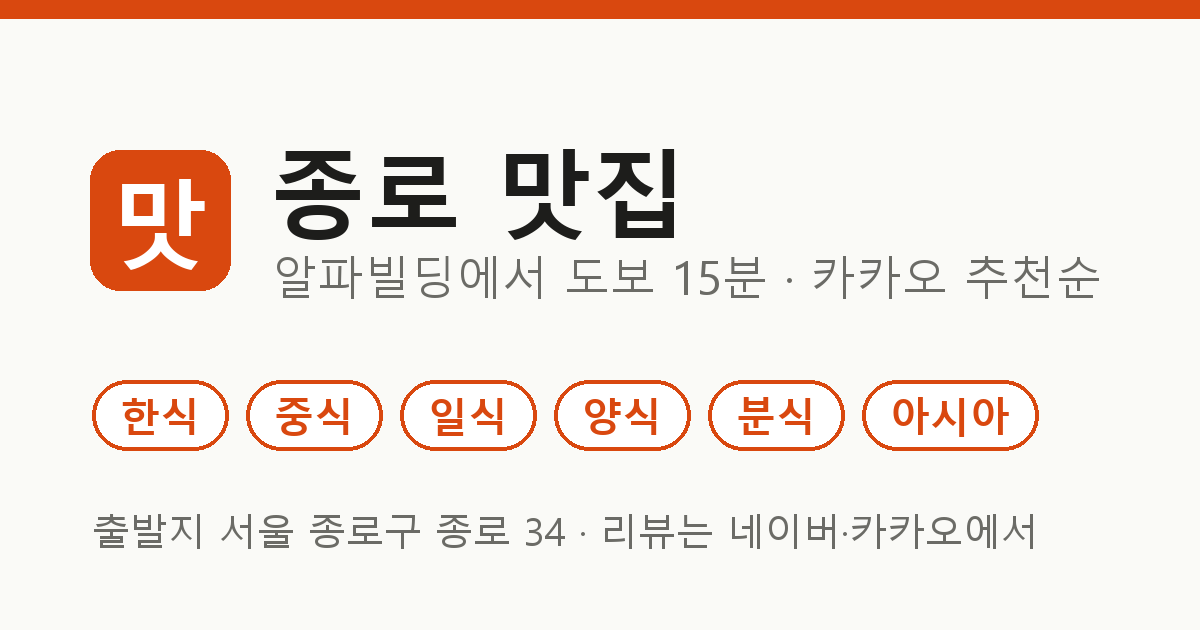
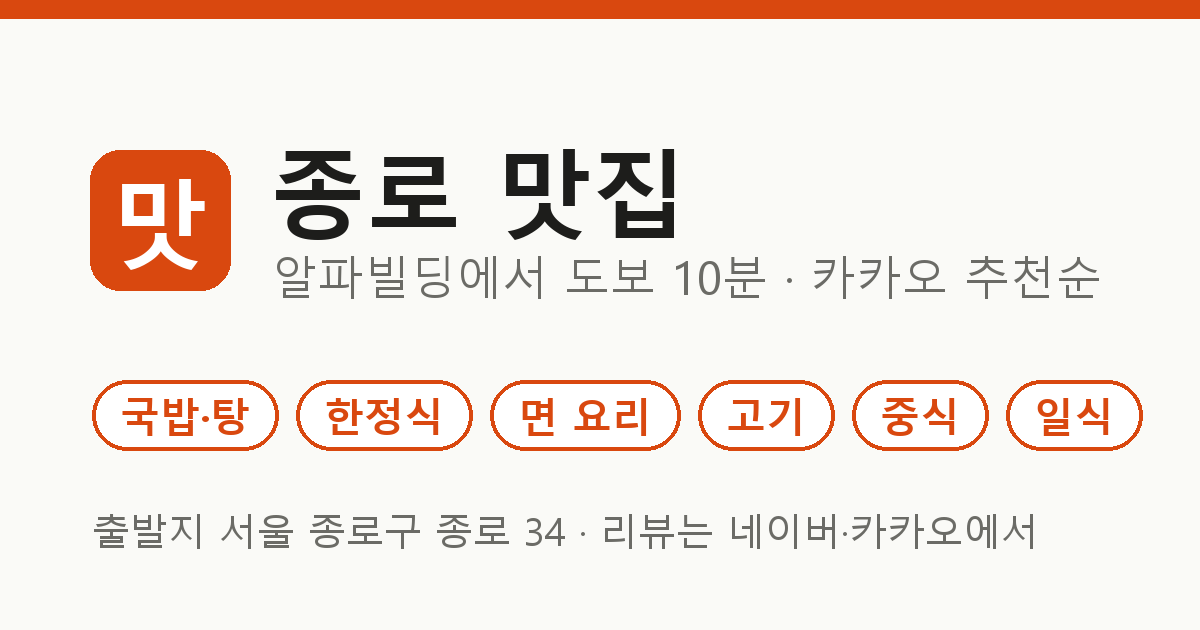
feat: 기본 도보 10분 범위로 검색, 15분은 범위 넓혀 재검색, 고기·구이 탭을 면 요리 다음으로

Changed region(s): [[0.0925, 0.6032, 0.9558, 0.7238], [0.5858, 0.4222, 0.6167, 0.4524]]

diff --git a/src/kakao.js b/src/kakao.js
@@ -1,6 +1,6 @@
 // 카카오 장소 검색: 탭의 검색어마다 카카오 추천(정확도) 순 상위 45곳을 받아 합친다.
 // 장소 정보는 저장하지 않고 페이지가 열려 있는 동안 메모리에만 둔다.
-import { CATEGORIES, CENTER, RADIUS_M } from './categories.js';
+import { CATEGORIES, CENTER, RADIUS_M, RANGES } from './categories.js';
 import { toRestaurant, matchesCategory, dedupeById } from './places-logic.js';
 
 const PAGE_SIZE = 15;
@@ -30,12 +30,12 @@ export function squareAround(center, radiusM) {
 
 // 카카오 정확도(추천) 순 상위 45곳을 순서대로 받는다.
 // 중심점(location)을 주면 카카오가 가까운 곳을 우대하므로, 범위(bounds)만 주고 반경 밖은 나중에 거른다.
-export function searchTop(keywordSearch, query, groupCode, sdk, timeoutMs = DEFAULT_TIMEOUT_MS) {
+export function searchTop(keywordSearch, query, groupCode, sdk, timeoutMs = DEFAULT_TIMEOUT_MS, radiusM = RADIUS_M) {
   const search = new Promise((resolve, reject) => {
     const docs = [];
     const fetchPage = (page) => {
       try {
-        const options = { bounds: sdk.toBounds(squareAround(CENTER, RADIUS_M)), category_group_code: groupCode, sort: sdk.sortAccuracy, size: PAGE_SIZE, page };
+        const options = { bounds: sdk.toBounds(squareAround(CENTER, radiusM)), category_group_code: groupCode, sort: sdk.sortAccuracy, size: PAGE_SIZE, page };
         keywordSearch(query, (result, status, pagination) => {
           if (status === sdk.Status.OK) {
             docs.push(...result);
@@ -55,18 +55,20 @@ export function searchTop(keywordSearch, query, groupCode, sdk, timeoutMs = DEFA
 
 export function createFetcher(keywordSearch, sdk, options = {}) {
   const cache = new Map();
-  return (categoryKey) => {
-    if (cache.has(categoryKey)) return cache.get(categoryKey);
+  return (categoryKey, rangeMin = 10) => {
+    const radiusM = RANGES[rangeMin] ?? RADIUS_M;
+    const cacheKey = `${rangeMin}:${categoryKey}`;
+    if (cache.has(cacheKey)) return cache.get(cacheKey);
     const category = CATEGORIES.find((c) => c.key === categoryKey);
     if (!category) return Promise.reject(new Error(`알 수 없는 종류: ${categoryKey}`));
     // 탭의 검색어마다 상위 45곳을 받아, 1위끼리·2위끼리 번갈아 합친다
     const p = Promise.all(category.queries.map((q) =>
-      searchTop(keywordSearch, q, category.groupCode, sdk, options.timeoutMs)
+      searchTop(keywordSearch, q, category.groupCode, sdk, options.timeoutMs, radiusM)
         .then((docs) => docs.filter((d) => matchesCategory(d.category_name, category)))))
-      .then((lists) => dedupeById(mergeRanked(lists).map((d) => toRestaurant(d)).filter((r) => r.distanceM <= RADIUS_M))
+      .then((lists) => dedupeById(mergeRanked(lists).map((d) => toRestaurant(d)).filter((r) => r.distanceM <= radiusM))
         .map((r, i) => ({ ...r, rank: i + 1 })));
-    cache.set(categoryKey, p);
-    p.catch(() => cache.delete(categoryKey));
+    cache.set(cacheKey, p);
+    p.catch(() => cache.delete(cacheKey));
     return p;
   };
 }

diff --git a/src/categories.js b/src/categories.js
@@ -1,10 +1,12 @@
-// 출발지(알파빌딩, 서울 종로구 종로 34)와 도보 15분 반경, 음식 종류 정의
+// 출발지(알파빌딩, 서울 종로구 종로 34)와 도보 반경, 음식 종류 정의
 export const ORIGIN_NAME = '알파빌딩';
 export const ORIGIN_ADDRESS = '서울 종로구 종로 34';
 export const CENTER = { lat: 37.5698358, lng: 126.9811326 }; // 카카오 장소 검색 '알파빌딩' 좌표
-export const WALK_LIMIT_MIN = 15;
-// 도보 시간 = 직선거리 × 1.3 ÷ 80m/분 → 15분 = 약 920m (점심시간에 다녀오기 좋은 거리)
-export const RADIUS_M = 920;
+// 도보 시간 = 직선거리 × 1.3 ÷ 80m/분 → 10분 ≈ 615m, 15분 ≈ 920m
+// 기본은 10분 범위로 검색하고, 15분을 고르면 15분 범위로 다시 검색한다.
+export const RANGES = { 10: 615, 15: 920 };
+export const WALK_LIMIT_MIN = 10;
+export const RADIUS_M = RANGES[WALK_LIMIT_MIN];
 
 // 배달앱처럼 메뉴 위주로 나눈 탭. queries: 카카오에 보낼 검색어(검색어마다 추천 상위 최대 45곳, 결과를 합친다)
 // paths: 카카오 분류('음식점 > ' 뒤)가 이 값으로 시작하면 이 탭에 넣는다. '한식='은 세부 분류 없는 '한식'만.
@@ -14,10 +16,10 @@ const tab = (key, label, queries, paths) => ({ key, label, queries, groupCode: '
 export const CATEGORIES = [
   // 전체: 음식점 전체를 카카오 추천순으로. 패스트푸드·간식(베이커리)·식품판매는 뺀다.
   { ...tab('all', '전체', ['맛집'], null), exclude: ['패스트푸드', '간식', '식품판매'] },
-  tab('meat', '고기·구이', ['고기', '갈비', '삼겹살'], ['한식 > 육류,고기']),
   tab('soup', '국밥·탕', ['국밥', '곰탕', '해장국'], ['한식 > 국밥', '한식 > 곰탕', '한식 > 설렁탕', '한식 > 해장국', '한식 > 감자탕', '한식 > 순대']),
   tab('hansik', '한정식·찌개', ['한정식', '찌개', '백반'], ['한식 > 한정식', '한식 > 찌개,전골', '한식 > 해물,생선', '한식=']),
   tab('noodle', '면 요리', ['칼국수', '냉면', '라멘'], ['한식 > 국수', '한식 > 냉면', '한식 > 수제비', '일식 > 일본식라면']),
+  tab('meat', '고기·구이', ['고기', '갈비', '삼겹살'], ['한식 > 육류,고기']),
   tab('chinese', '중식', ['중식', '짬뽕'], ['중식']),
   tab('japanese', '돈까스·회·일식', ['돈까스', '초밥', '일식'], ['일식']),
   tab('western', '양식·피자·버거', ['파스타', '피자', '햄버거'], ['양식']),

diff --git a/src/app.js b/src/app.js
@@ -5,7 +5,8 @@ import { createFetcher, withTimeout } from './kakao.js';
 import { renderTabs, renderList, renderLoading, renderError } from './ui.js';
 
 const $ = (id) => document.getElementById(id);
-const state = { active: CATEGORIES[0].key, sortBy: 'rank', maxWalk: 0, data: null, fetchFor: null };
+// range: 검색 범위(10·15분), maxWalk: 그 안에서 더 좁히는 필터(5분)
+const state = { active: CATEGORIES[0].key, sortBy: 'rank', range: 10, maxWalk: 0, data: null, fetchFor: null };
 
 export function loadKakaoSdk(appKey) {
   return new Promise((resolve, reject) => {
@@ -19,22 +20,23 @@ export function loadKakaoSdk(appKey) {
 
 function paint() {
   $('tabs').innerHTML = renderTabs(CATEGORIES, state.active);
-  if (state.data) $('list').innerHTML = renderList(sortRestaurants(filterByWalk(state.data, state.maxWalk), state.sortBy), { maxWalk: state.maxWalk });
+  if (state.data) $('list').innerHTML = renderList(sortRestaurants(filterByWalk(state.data, state.maxWalk), state.sortBy), { maxWalk: state.maxWalk, range: state.range });
 }
 
 async function show(key) {
   state.active = key;
+  const { range } = state;
   state.data = null;
   paint();
   $('list').innerHTML = renderLoading();
   try {
-    const data = await state.fetchFor(key);
-    if (state.active !== key) return; // 그 사이 다른 탭을 눌렀으면 무시
+    const data = await state.fetchFor(key, range);
+    if (state.active !== key || state.range !== range) return; // 그 사이 탭이나 범위가 바뀌었으면 무시
     state.data = data;
     paint();
   } catch (e) {
     console.error(e);
-    if (state.active === key) $('list').innerHTML = renderError();
+    if (state.active === key && state.range === range) $('list').innerHTML = renderError();
   }
 }
 
@@ -71,7 +73,12 @@ async function main() {
     if (btn && (btn.dataset.key !== state.active || !state.data)) show(btn.dataset.key);
   });
   $('sortBy')?.addEventListener('change', (ev) => { state.sortBy = ev.target.value; paint(); });
-  $('maxWalk')?.addEventListener('change', (ev) => { state.maxWalk = Number(ev.target.value); paint(); });
+  $('maxWalk')?.addEventListener('change', (ev) => {
+    const v = Number(ev.target.value);
+    const range = v === 15 ? 15 : 10;      // 15분은 범위를 넓혀 다시 검색
+    state.maxWalk = v === 5 ? 5 : 0;       // 5분은 10분 목록에서 걸러내기
+    if (range !== state.range) { state.range = range; show(state.active); } else paint();
+  });
   show(state.active);
 }
 

diff --git a/tests/categories.test.js b/tests/categories.test.js
@@ -1,6 +1,6 @@
 import { test } from 'node:test';
 import assert from 'node:assert/strict';
-import { CATEGORIES, CENTER, RADIUS_M, ORIGIN_NAME, WALK_LIMIT_MIN } from '../src/categories.js';
+import { CATEGORIES, CENTER, RADIUS_M, RANGES, ORIGIN_NAME, WALK_LIMIT_MIN } from '../src/categories.js';
 import { walkMinutes, matchesCategory } from '../src/places-logic.js';
 
 const cat = (k) => CATEGORIES.find(c => c.key === k);
@@ -8,7 +8,7 @@ const path = (p) => `음식점 > ${p}`;
 
 test('tab order and labels (배달앱식 메뉴 탭)', () => {
   assert.deepEqual(CATEGORIES.map(c => c.label),
-    ['전체', '고기·구이', '국밥·탕', '한정식·찌개', '면 요리', '중식', '돈까스·회·일식', '양식·피자·버거', '분식', '아시안', '샐러드·도시락']);
+    ['전체', '국밥·탕', '한정식·찌개', '면 요리', '고기·구이', '중식', '돈까스·회·일식', '양식·피자·버거', '분식', '아시안', '샐러드·도시락']);
 });
 test('every tab: unique key, restaurants only, 1+ search words; 전체 has no path filter', () => {
   assert.equal(new Set(CATEGORIES.map(c => c.key)).size, CATEGORIES.length);
@@ -46,8 +46,9 @@ test('origin is 알파빌딩 (서울 종로구 종로 34)', () => {
   assert.ok(Math.abs(CENTER.lng - 126.9811326) < 0.0002);
   assert.match(ORIGIN_NAME, /알파빌딩/);
 });
-test('radius is the 15-minute walk boundary', () => {
-  assert.equal(WALK_LIMIT_MIN, 15);
-  assert.ok(walkMinutes(RADIUS_M) <= 15);
-  assert.ok(walkMinutes(RADIUS_M + 40) > 15);
+test('default range is 10 minutes; 15-minute range is also available', () => {
+  assert.equal(WALK_LIMIT_MIN, 10);
+  assert.equal(RANGES[10], RADIUS_M);
+  assert.ok(walkMinutes(RANGES[10]) <= 10 && walkMinutes(RANGES[10] + 40) > 10);
+  assert.ok(walkMinutes(RANGES[15]) <= 15 && walkMinutes(RANGES[15] + 40) > 15);
 });

diff --git a/index.html b/index.html
@@ -4,11 +4,11 @@
   <meta charset="utf-8">
   <meta name="viewport" content="width=device-width, initial-scale=1">
   <title>종로 맛집</title>
-  <meta name="description" content="알파빌딩(서울 종로구 종로 34)에서 도보 15분 안 맛집을 종류별 카카오 추천순으로.">
+  <meta name="description" content="알파빌딩(서울 종로구 종로 34)에서 도보 10~15분 안 맛집을 종류별 카카오 추천순으로.">
   <!-- 카톡 등 링크 미리보기 -->
   <meta property="og:type" content="website">
   <meta property="og:site_name" content="종로 맛집">
-  <meta property="og:title" content="알파빌딩에서 도보 15분 맛집">
+  <meta property="og:title" content="알파빌딩에서 도보 10분 맛집">
   <meta property="og:description" content="종로·광화문·을지로 점심 맛집을 종류별 카카오 추천순으로 모아 봤어요.">
   <meta property="og:url" content="https://posisth-star.github.io/jonggak-matjip/">
   <meta property="og:image" content="https://posisth-star.github.io/jonggak-matjip/og.png">
@@ -22,7 +22,7 @@
 </head>
 <body>
   <header>
-    <h1>알파빌딩에서 도보 15분 맛집</h1>
+    <h1>알파빌딩에서 도보 10분 맛집</h1>
     <p class="lead">출발지 서울 종로구 종로 34 알파빌딩 · 카카오 추천순 · 리뷰는 네이버·카카오에서 확인하세요.</p>
   </header>
   <nav id="tabs" role="tablist" aria-label="음식 종류"></nav>
@@ -36,9 +36,9 @@
     </label>
     <label>거리
       <select id="maxWalk">
-        <option value="0">도보 15분 이내</option>
-        <option value="5">도보 5분 이내</option>
         <option value="10">도보 10분 이내</option>
+        <option value="15">도보 15분 이내</option>
+        <option value="5">도보 5분 이내</option>
       </select>
     </label>
   </div>

diff --git a/tests/ui.test.js b/tests/ui.test.js
@@ -16,7 +16,7 @@ test('renderList omits phone when empty', () => {
   assert.ok(!renderList([r({ phone: '' })]).includes('tel:'));
 });
 test('renderList shows count summary', () => {
-  assert.ok(renderList([r(), r({ id: '2' })]).includes('2곳 · 알파빌딩에서 도보 15분 이내 · 카카오 추천순'));
+  assert.ok(renderList([r(), r({ id: '2' })]).includes('2곳 · 알파빌딩에서 도보 10분 이내 · 카카오 추천순'));
 });
 test('escapes name', () => {
   const html = renderList([r({ name: '<b>A&B</b>' })]);
@@ -49,11 +49,16 @@ test('renderList summary mentions walk filter', () => {
 test('top mode shows rank badge and summary', () => {
   const html = renderList([r({ rank: 2 })]);
   assert.ok(html.includes('추천 2위'));
-  assert.ok(html.includes('1곳 · 알파빌딩에서 도보 15분 이내 · 카카오 추천순'));
+  assert.ok(html.includes('1곳 · 알파빌딩에서 도보 10분 이내 · 카카오 추천순'));
 });
 test('top mode with walk filter summary', () => {
   assert.ok(renderList([r({ rank: 1 })], { maxWalk: 10 }).includes('1곳 · 알파빌딩에서 도보 10분 이내 · 카카오 추천순'));
 });
 test('no rank badge without rank', () => {
   assert.ok(!renderList([r()]).includes('class="rank"'));
+});
+
+test('summary shows the selected range', () => {
+  assert.ok(renderList([r()], { range: 15 }).includes('알파빌딩에서 도보 15분 이내'));
+  assert.ok(renderList([r()], { range: 10, maxWalk: 5 }).includes('알파빌딩에서 도보 5분 이내'));
 });

diff --git a/tests/kakao.test.js b/tests/kakao.test.js
@@ -1,7 +1,7 @@
 import { test } from 'node:test';
 import assert from 'node:assert/strict';
 import { searchTop, createFetcher, mergeRanked } from '../src/kakao.js';
-import { CATEGORIES, CENTER, RADIUS_M } from '../src/categories.js';
+import { CATEGORIES, CENTER, RADIUS_M, RANGES } from '../src/categories.js';
 
 const sdk = { toBounds: (r) => r, sortAccuracy: 'ACC', Status: { OK: 'OK', ZERO_RESULT: 'ZERO', ERROR: 'ERR' } };
 const doc = (id, distance = 100, cat = '음식점 > 한식 > 국밥') =>
@@ -101,4 +101,19 @@ test('rejects when keywordSearch throws on a later page', async () => {
   let n = 0;
   const s = (q, cb) => { if (++n === 2) throw new Error('boom'); setTimeout(() => cb(ranked(15), 'OK', { hasNextPage: true }), 0); };
   await assert.rejects(searchTop(s, '국밥', 'FD6', sdk, 1000), /boom/);
+});
+
+test('15-minute range searches a wider square and keeps farther places; cached separately', async () => {
+  const s = byQueryFake({ '국밥': [doc('near', 300), doc('mid', 800)], '곰탕': [], '해장국': [] });
+  const f = createFetcher(s, sdk);
+  const ten = await f('soup');
+  assert.deepEqual(ten.map(x => x.id), ['near']);
+  const n = s.calls.length;
+  const fifteen = await f('soup', 15);
+  assert.deepEqual(fifteen.map(x => x.id), ['near', 'mid']);
+  assert.ok(s.calls.length > n);
+  const wide = s.calls[s.calls.length - 1].o.bounds;
+  assert.ok(Math.abs(wide.ne.lat - (CENTER.lat + RANGES[15] / 111320)) < 1e-6);
+  await f('soup', 15);
+  assert.equal(s.calls.length, n * 2);
 });

diff --git a/src/ui.js b/src/ui.js
@@ -23,13 +23,13 @@ function renderCard(x) {
 </li>`;
 }
 
-export function renderList(list, { maxWalk = 0 } = {}) {
+export function renderList(list, { maxWalk = 0, range = WALK_LIMIT_MIN } = {}) {
   if (!list.length) {
     return maxWalk > 0
       ? `<p class="notice">도보 ${maxWalk}분 안에는 식당이 없어요. 거리를 넓혀 보세요.</p>`
       : '<p class="notice">이 종류는 주변에 맛집 정보가 없어요.</p>';
   }
-  const scope = `${ORIGIN_NAME}에서 도보 ${maxWalk > 0 ? maxWalk : WALK_LIMIT_MIN}분 이내 · 카카오 추천순`;
+  const scope = `${ORIGIN_NAME}에서 도보 ${maxWalk > 0 ? maxWalk : range}분 이내 · 카카오 추천순`;
   return `<p class="summary">${list.length}곳 · ${scope}</p><ul class="cards">${list.map(renderCard).join('')}</ul>`;
 }
 
